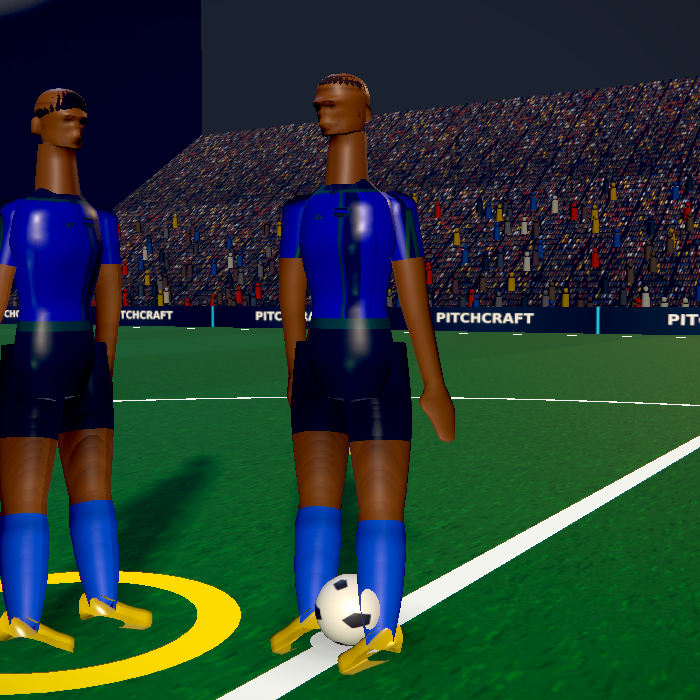
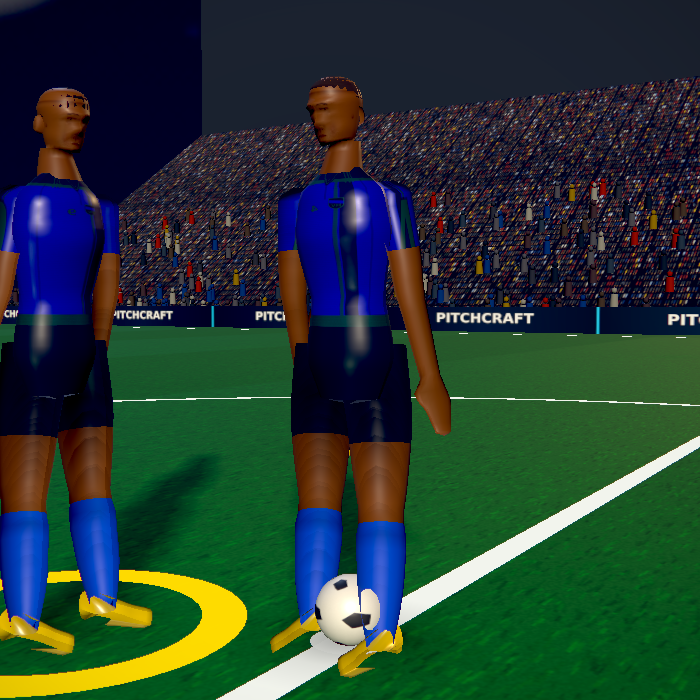
Correct the chin datum, neck length, ear UVs and triangle budget
Third art-director pass, all four verified numerically before acting.

Chin datum. The lathe's lowest ring was at h = 0.18 and the chin sculpt only
pulled it to h = 0.095, so the rendered head was 19.9cm against the 22cm the
anthropometric tables were sized for - and every "canon" feature was being
measured from a plane 2cm below the actual model. The mouth was landing at
10.5% of rendered head height instead of 19%, which is why it sat on the
chin. Ring stack now starts at h = 0.10 with the chin band centred on it:

  rendered head height  19.9cm -> 21.7cm  (tables assume 22)
  chin lands at h        0.095 -> 0.015
  mouth at               10.5% -> 17.8%   (target 19)

Neck. 12.3cm of bare skin against a ~20cm head - a ratio of 0.62 where a real
one is nearer 0.30. Shoulder line raised (DIM.torso 0.56 -> 0.60), giving
6.5cm against the 6.7cm target.

Ear UVs. `u` runs 0..1 across every ring, so each 3.4cm ear tab was sampling
the entire 0.54m head map - the nose bridge highlight and both eye-socket
washes wrapped around it, which is the banding visible on the ear in the
three-quarter and profile shots. Rings now take a `uvFixed` option pinning
every vertex to one texel of plain cheek skin.

Triangle budget. 6,662 per player against a 6k ceiling, 26% of it in a face
slot that resolves to about 5x6 pixels at gameplay distance. FACE_RADIAL
28 -> 20, HEAD_STEPS 24 -> 18, RADIAL 16 -> 14: now 5,014.

Face variants were also collapsing: hashing id and shirt number gave only 5
[…]

diff --git a/pitchcraft/src/render/character.js b/pitchcraft/src/render/character.js
@@ -55,7 +55,9 @@ const DIM = {
   shin: 0.42 * S,
   footLen: 0.26 * S,
   footH: 0.08 * S,
-  torso: 0.56 * S,
+  // Raised from 0.56: the collar sat 12.3cm below the chin, a neck-to-head
+  // ratio of 0.62 where a real one is nearer 0.30.
+  torso: 0.6 * S,
   neck: 0.07 * S,
   headR: 0.115 * S,
   upperArm: 0.29 * S,
@@ -79,7 +81,7 @@ const SLOT = { shirt: 0, shorts: 1, socks: 2, skin: 3, boot: 4, hair: 5, face: 6
  * At 16 a player is ~3.2k triangles, which is squarely in the range the PS2-era
  * football games this is aiming at used.
  */
-const RADIAL = 16;
+const RADIAL = 14;
 
 // ---------------------------------------------------------------------------
 // Skeleton
@@ -235,7 +237,7 @@ function headShape(h, HEAD_H, S, F) {
     // The lathe's lowest ring is the jawline. A chin is a *front* feature, so
     // it is pulled down and forward out of that ring rather than being a ring
     // of its own — a horizontal ring can never be a chin.
-    const low = band(h, 0.19, 0.1);
+    const low = band(h, 0.1, 0.09);
     dy -= R * 0.085 * F.chin * low * lobe(a, Math.PI / 2, 0.9);
     dz += R * 0.045 * F.chin * low * lobe(a, Math.PI / 2, 0.65);
     // Mandible angle: the jaw corner, which is a real landmark and not a curve.
@@ -320,6 +322,8 @@ function addEars(m, { chinY, HEAD_H, S, widthAt }) {
         slot: SLOT.face,
         v: 0.42,
         radial: 10,
+        // A plain patch of cheek skin, behind the ear's own position.
+        uvFixed: [0.34, 0.42],
         // Lobe at the bottom, helix flaring at the top-back: an ear is not an
         // ellipse, and the asymmetry is most of what reads as one.
         shape: (a) => ({
@@ -407,7 +411,11 @@ class MeshBuilder {
       if (axis === 'y') this.pos.push(x + c * r.rx * k + dx, y + dy, z + s * r.rz * k + dz);
       else if (axis === 'x') this.pos.push(x + dx, y + c * r.rx * k + dy, z + s * r.rz * k + dz);
       else this.pos.push(x + c * r.rx * k + dx, y + s * r.rz * k + dy, z + dz);
-      this.uv.push(i / n, r.v ?? 0);
+      // `uvFixed` pins every vertex in the ring to one texel. The ears need it:
+      // u runs 0..1 across each ring, so a 3.4cm ear tab was sampling the entire
+      // head map and came out banded with the nose highlight and eye washes.
+      if (r.uvFixed) this.uv.push(r.uvFixed[0], r.uvFixed[1]);
+      else this.uv.push(i / n, r.v ?? 0);
       const ao = typeof r.ao === 'function' ? r.ao(a) : r.ao ?? 1;
       this.ao.push(ao, ao, ao);
 
@@ -686,7 +694,12 @@ function bodyGeometry(boneIndex, variant) {
   const CHIN_Y = CROWN_Y - HEAD_H;
   // The lathe's lowest ring is the jawline; the chin is sculpted down from it,
   // because a chin is a front feature and a horizontal ring cannot be one.
-  const JAW_H = 0.18;
+  // The lowest ring was at 0.18 and the chin sculpt pulled it down to only
+  // h = 0.095, so the rendered head came out 19.9cm against the 22cm these
+  // tables assume — which put the mouth at 10.5% of head height instead of
+  // 19%. Starting the stack lower, with the chin band centred on it, lands the
+  // real chin at h ~ 0.015.
+  const JAW_H = 0.1;
 
   /** Piecewise-linear profile lookup. */
   const profile = (table, h) => {
@@ -712,16 +725,18 @@ function bodyGeometry(boneIndex, variant) {
 
   // Seam at the occiput so its normal crease hides under hair.
   const SEAM = -Math.PI / 2;
-  const FACE_RADIAL = 28;
+  const FACE_RADIAL = 20;
   const headRings = [];
 
   // Neck: a column from the shoulders up into the jaw.
-  const neckR = 0.056 * S;
+  // The junction ring sits at chin height, where the neck is hidden behind the
+  // jaw, so it is narrower than a neck's true girth; the rings below it flare.
+  const neckR = 0.048 * S;
   const jawRingY = CHIN_Y + JAW_H * HEAD_H;
   for (let i = 0; i <= 3; i++) {
     const t = i / 3;
     headRings.push({
-      p: [0, lerp(DIM.hipY + DIM.torso - 0.015 * S, jawRingY, t), -0.012 * S * t],
+      p: [0, lerp(DIM.hipY + DIM.torso - 0.015 * S, jawRingY, t), -0.03 * S * t],
       rx: lerp(0.07 * S, neckR, t),
       rz: lerp(0.075 * S, neckR * 1.06, t),
       w: t < 0.4 ? [['neck', 1]] : [['neck', 1 - (t - 0.4) / 0.6], ['head', (t - 0.4) / 0.6]],
@@ -734,7 +749,7 @@ function bodyGeometry(boneIndex, variant) {
     });
   }
 
-  const HEAD_STEPS = 24;
+  const HEAD_STEPS = 18;
   for (let i = 0; i <= HEAD_STEPS; i++) {
     const k = i / HEAD_STEPS;
     const h = lerp(JAW_H, 1, k);
@@ -1134,7 +1149,10 @@ export function createPlayer(player, teamCfg, opts = {}) {
   const skeleton = buildSkeleton();
   // Face variant from the player's own id, so a given match always looks the
   // same and two players in a squad rarely collide.
-  const variant = (player.id * 7 + player.number * 3) % FACE_VARIANTS;
+  // Player ids are sequential, so taking them modulo the variant count spreads
+  // maximally: eight distinct faces across fourteen players. A hash of id and
+  // shirt number collided down to five.
+  const variant = player.id % FACE_VARIANTS;
   const geometry = bodyGeometry(skeleton.index, variant);
 
   const shirtColor = isKeeper ? colors.keeper : colors.primary;
